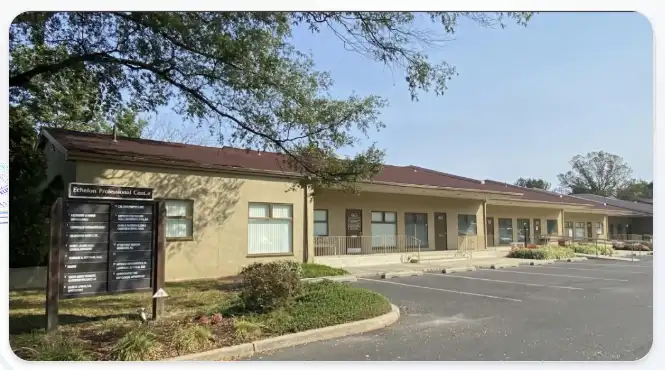
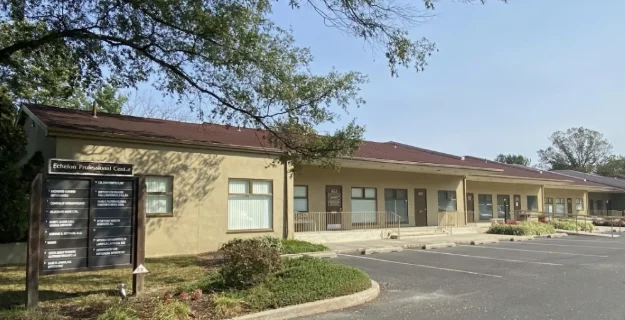
Crop baked-in borders from hero image and add strict border-radius clipping

diff --git a/apps/web/src/pages/HomePage.jsx b/apps/web/src/pages/HomePage.jsx
@@ -210,8 +210,8 @@ function HomePage() {
               {/* Right — Hero Image */}
               <motion.div className="relative" initial={{ opacity: 0, x: 40 }} animate={{ opacity: 1, x: 0 }} transition={{ duration: 0.8, delay: 0.3, ease: 'easeOut' }}>
                 <div className="absolute -right-16 top-10 h-[440px] w-[440px] rounded-full bg-gradient-to-br from-primary/25 to-[#591667]/10 blur-3xl animate-pulse-glow" />
-                <div className="relative overflow-hidden rounded-3xl border border-slate-200/60 shadow-2xl shadow-primary/10">
-                  <img src="/hero-image.webp" alt="Medical billing team" width="665" height="370" className="h-[300px] md:h-[420px] w-full rounded-3xl object-cover block" fetchpriority="high" loading="eager" decoding="async" />
+                <div className="relative overflow-hidden rounded-3xl border border-slate-200/60 shadow-2xl shadow-primary/10" style={{ borderRadius: '1.5rem', overflow: 'hidden' }}>
+                  <img src="/hero-image.webp" alt="Medical billing team" width="665" height="370" className="h-[300px] md:h-[420px] w-full rounded-3xl object-cover block" style={{ borderRadius: '1.5rem' }} fetchpriority="high" loading="eager" decoding="async" />
                 </div>
               </motion.div>
             </div>
@@ -563,8 +563,8 @@ function HomePage() {
                 </motion.div>
               </motion.div>
 
-              <motion.div className="relative overflow-hidden rounded-3xl border border-slate-100 shadow-xl" initial={{ opacity: 0, x: 40 }} whileInView={{ opacity: 1, x: 0 }} viewport={{ once: true }} transition={{ duration: 0.8 }}>
-                <img src="\WhatsApp Image 2026-08-06 at 00.55.00.jpeg" alt="Medical professionals" width="408" height="602" className="h-[300px] md:h-[520px] w-full rounded-3xl object-cover" loading="lazy" decoding="async" />
+              <motion.div className="relative overflow-hidden rounded-3xl border border-slate-100 shadow-xl" style={{ borderRadius: '1.5rem', overflow: 'hidden' }} initial={{ opacity: 0, x: 40 }} whileInView={{ opacity: 1, x: 0 }} viewport={{ once: true }} transition={{ duration: 0.8 }}>
+                <img src="/medical-center.webp" alt="Medical professionals" width="408" height="602" className="h-[300px] md:h-[520px] w-full rounded-3xl object-cover block" style={{ borderRadius: '1.5rem' }} loading="lazy" decoding="async" />
               </motion.div>
             </div>
           </div>

diff --git a/dist/apps/web/index.html b/dist/apps/web/index.html
@@ -24,7 +24,7 @@
 			#root { min-height: 100vh; }
 			.animated-gradient-bg { background: linear-gradient(135deg, #f6f7ff 0%, #eef0ff 50%, #f0f4ff 100%); }
 		</style>
-		<script type="module" crossorigin src="/assets/index-CkvlFs-f.js"></script>
+		<script type="module" crossorigin src="/assets/index-CXML_sHH.js"></script>
 		<link rel="stylesheet" crossorigin href="/assets/index-BF5Bjh5s.css">
 		<script type="module">
 window.onerror = (message, source, lineno, colno, errorObj) => {
